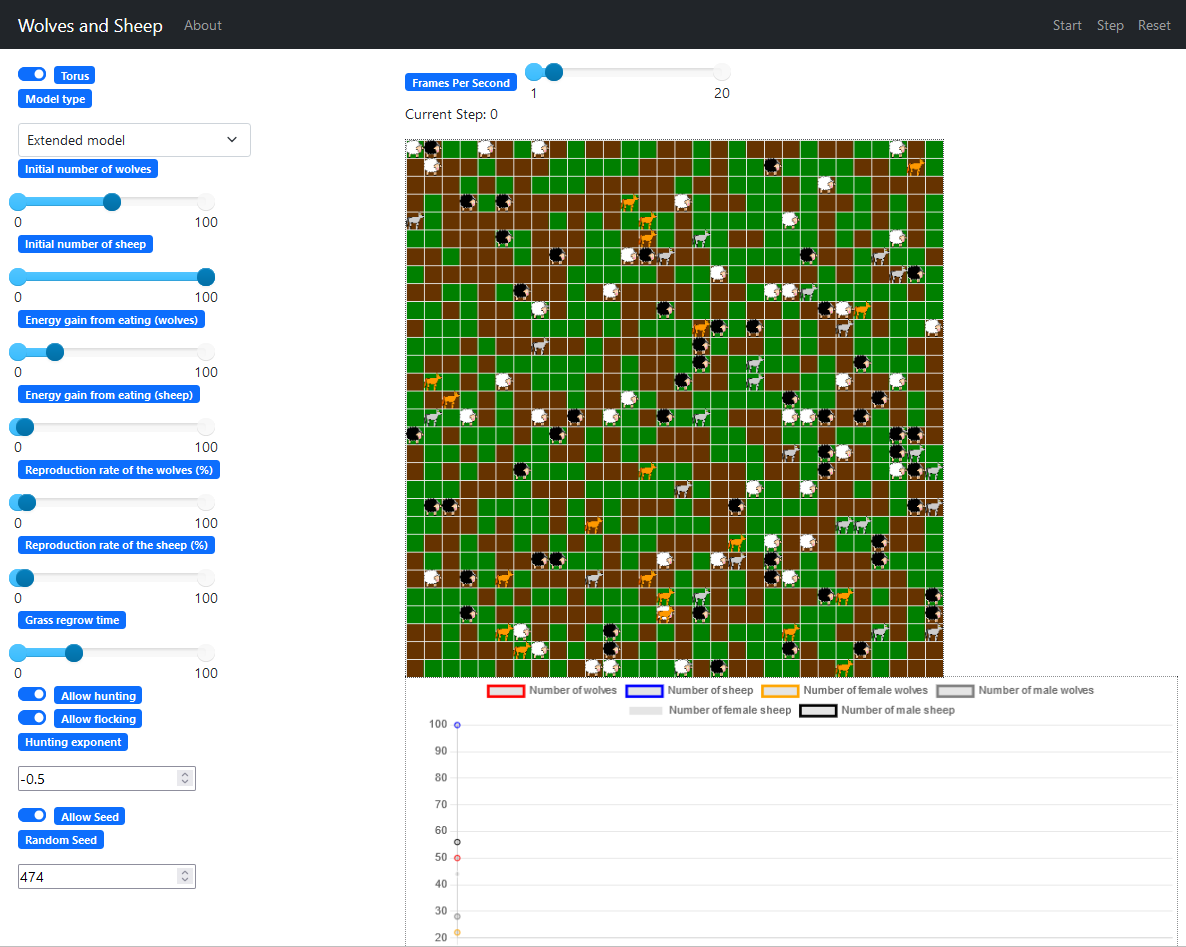
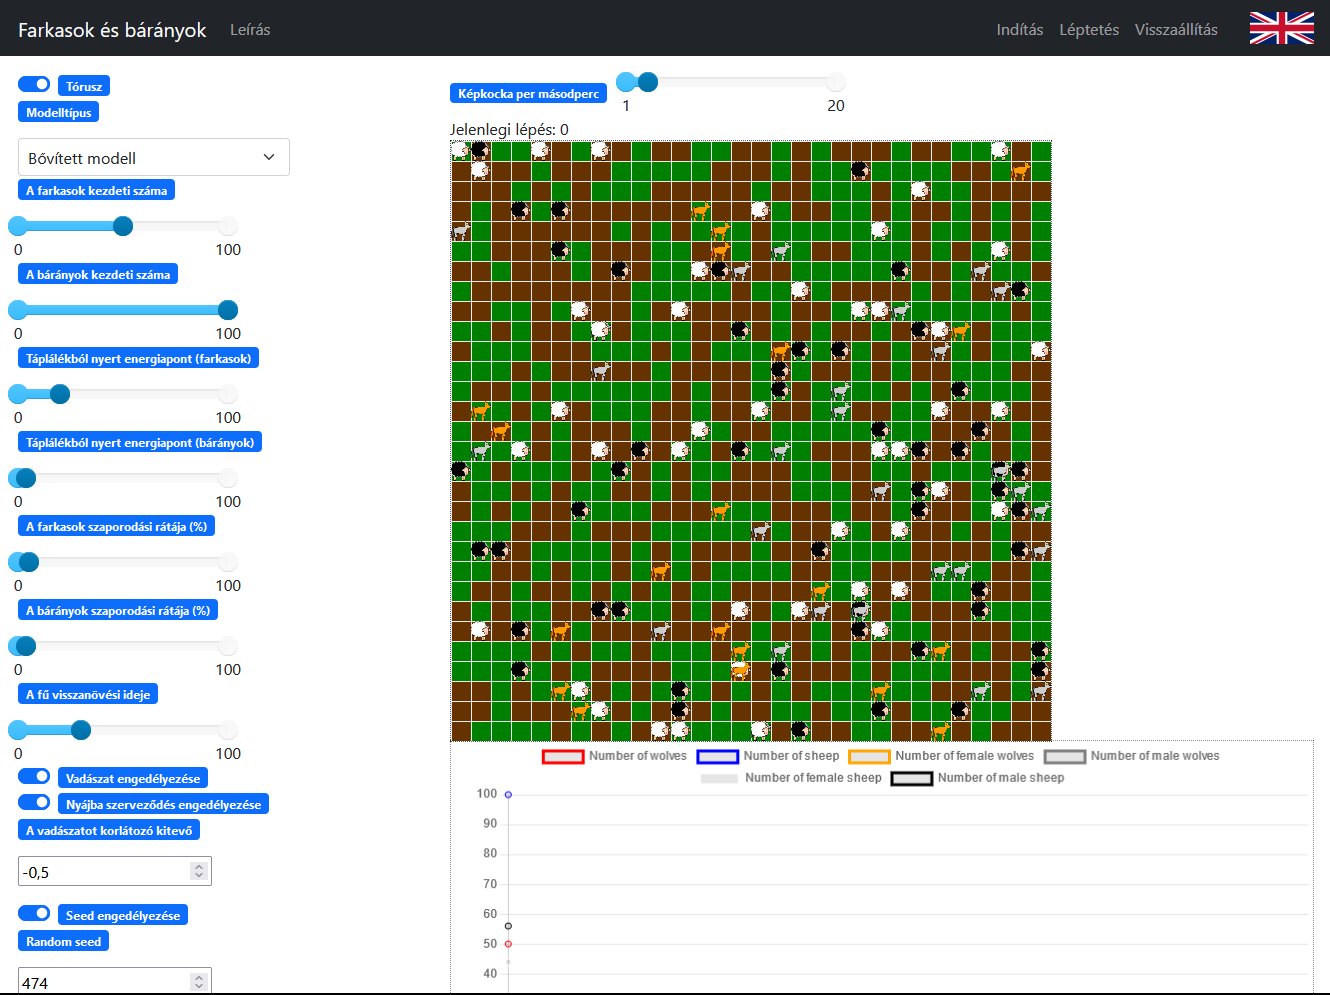
Flags and documentation progress

Changed region(s): [[0.0, 0.0, 1.0, 1.0], [0.1872, 0.1225, 0.2184, 0.1837], [0.156, 0.7043, 0.1872, 0.7656]]

diff --git a/wolfsheep/js/LangSwitch.js b/wolfsheep/js/LangSwitch.js
@@ -4,23 +4,12 @@ let lang = "en"
 navbar = document.getElementById("navbar")
 config = { attributes: true, childList: true, subtree: true }
 
-switch(lang) {
-    default:
-    case "hu":
-    navbar.innerHTML += `
+navbar.innerHTML += `
+<div><p>Tab</p></div>
 <div id="lang-flag">
-<img src="/local/custom/wolfsheep/pics/hu_flag.png">
+<img width="64" src="https://upload.wikimedia.org/wikipedia/commons/c/c1/Flag_of_Hungary.svg">
 </div>
 `
-    break;
-    case "en":
-    navbar.innerHTML += `
-<div id="lang-flag">
-<img src="/local/custom/wolfsheep/pics/en_flag.png">
-</div>
-`
-    break;
-}
 
 // Initialize description
 fetch("/local/custom/wolfsheep/text/eng_description.md")
@@ -59,7 +48,7 @@ function SwitchToHun() {
     HeaderToHun()
     ButtonsToHun()
     ParamsToHun()
-    lang_flag.firstElementChild.src = "/local/custom/wolfsheep/pics/eng_flag.png"
+    lang_flag.firstElementChild.src = "https://upload.wikimedia.org/wikipedia/commons/a/a5/Flag_of_the_United_Kingdom_(1-2).svg"
     lang = "hu"
 }
 
@@ -135,7 +124,7 @@ function SwitchToEng() {
     HeaderToEng()
     ButtonsToEng()
     ParamsToEng()
-    lang_flag.firstElementChild.src = "/local/custom/wolfsheep/pics/hun_flag.png"
+    lang_flag.firstElementChild.src = "https://upload.wikimedia.org/wikipedia/commons/c/c1/Flag_of_Hungary.svg"
     lang = "en"
 }
 

diff --git a/README.md b/README.md
@@ -131,11 +131,13 @@ Sajnálatos módon, csak Linux alatt ajánlott a futtatás, mert valamilyen ok f
 <h3>Kezelés</h3>
 <img src="wolfsheep/pics/viz_showcase.png" width=700>
 
+<br>
+
 A fenti ábrán egy az alapértelmezett paraméterekkel, kezdeti állapotban készült képernyőkép látható.
 
-A felső sávban látható a modell neve, mellette az "About" gomb, amelyre rákattintva egy angol nyelvű leírás ugrik fel. A sáv jobb szélén a "Start", "Step" és "Stop" gombok vannak, amelyek közül a középső a modellt lépteti.
+A weboldal alapértelmezett nyelve az angol, de a jobb felső sarokban lévő zászlóra kattintva a grafikonok jelmagyarázatának kivételével átállítható magyarra és akár vissza is. A bal felső sarokban a model neve látható, mellette a Leírás gombra kattintva a README.md egy rövidített, csak az oldal aktuális nyelvén lévő változata olvasható. A zászlótól balra látható az Indítás, a Léptetés és a Visszaállítás gombok, amelyek nevükhöz hűen működnek, de az Indítás gomb a Megállítás gomb is.
 
-A bal oldalon a modell paraméterei állíthatók be, középen a modellt vizualizáló négyzetrács látható, amely felett a rendes, Start gombbal való indított szimuláció sebessége allítható, amely alapértelmezett értéke 3 lépés/másodperc, azonban ez az ágensek számától függően változhat (például túlszaporodás esetén lassabb). A rács alatt két grafikon látható (az alsó nem fért a képre), amely közül a felső az egyedek számát ábrázolja fajonként, illetve nemenként a lépésszám függvényében. Az alsó grafikon a kinőtt fűágensek százalékos arányát ábrázolja szintén a lépésszám függvényében.
+A bal oldalon a modell paraméterei állíthatók be, középen a modellt vizualizáló négyzetrács látható, amely felett a rendes, Indítás gombbal való indított szimuláció sebessége allítható, amely alapértelmezett értéke 3 lépés/másodperc, azonban ez az ágensek számától függően változhat (például túlszaporodás esetén lassabb). A rács alatt két grafikon látható (az alsó nem fért a képre), amely közül a felső az egyedek számát ábrázolja fajonként, illetve nemenként a lépésszám függvényében. Az alsó grafikon a kinőtt fűágensek százalékos arányát ábrázolja szintén a lépésszám függvényében.
 
 A nőstény farkasok narancssárgák, a hímek szürkék, a nőstény bárányok fehérek, a hímek feketék. Ennek a választásnak a következménye az, hogy az öröklött modelltípusokban minden farkas hím és minden bárány nőstény.
 

diff --git a/wolfsheep/text/hun_description.md b/wolfsheep/text/hun_description.md
@@ -70,11 +70,13 @@ A vizualizációs programot többféleképpen is el lehet indítani. Egyik lehet
 Sajnálatos módon, csak Linux alatt ajánlott a futtatás, mert valamilyen ok folytán Windows alatt a mesa_viz_tornado által generált weboldalon nem jelennek meg rendesen az interaktív elemek, de ettől függetlenül minden működik. Azonban WSL-lel vagy virtuális géppel Windowson is hibátlanul futattható, de a Microsoft Edge böngésző így sem tudja megjeleníteni az érintett elemeket, de a Firefox és a Google Chrome igen. Mindkét módszert Debian Linuxszal teszteltem. Én a WSL megoldást javaslom, mert a kiírt IP-címes URL működik (http://127.0.0.1:8521, amivel egyenértékű a <a href=http://localhost:8521>localhost:8521</a>) a virtuális gép esetével ellentétben, ahol a programtól és annak beállításaitól függ az IP-cím, vagy a virtuális gépen belül használjuk a programot.
 
 <h3>Kezelés</h3>
-<img src="/local/custom/wolfsheep/pics/viz_showcase.png" width=700>
+<img src="/local/custom/wolfsheep/pics/viz_showcase.png" width=500>
+
+<br>
 
 A fenti ábrán egy az alapértelmezett paraméterekkel, kezdeti állapotban készült képernyőkép látható.
 
-A felső sávban látható a modell neve, mellette az "About" gomb, amelyre rákattintva egy angol nyelvű leírás ugrik fel. A sáv jobb szélén a "Start", "Step" és "Stop" gombok vannak, amelyek közül a középső a modellt lépteti.
+A weboldal alapértelmezett nyelve az angol, de a jobb felső sarokban lévő zászlóra kattintva a grafikonok jelmagyarázatának kivételével átállítható magyarra és akár vissza is. A zászlótól balra látható az Indítás, a Léptetés és a Visszaállítás gombok, amelyek nevükhöz hűen működnek, de az Indítás gomb a Megállítás gomb is.
 
 A bal oldalon a modell paraméterei állíthatók be, középen a modellt vizualizáló négyzetrács látható, amely felett a rendes, Start gombbal való indított szimuláció sebessége allítható, amely alapértelmezett értéke 3 lépés/másodperc, azonban ez az ágensek számától függően változhat (például túlszaporodás esetén lassabb). A rács alatt két grafikon látható (az alsó nem fért a képre), amely közül a felső az egyedek számát ábrázolja fajonként, illetve nemenként a lépésszám függvényében. Az alsó grafikon a kinőtt fűágensek százalékos arányát ábrázolja szintén a lépésszám függvényében. A lejjebb lévő "Vizualizáció nélküli futtattás" szakaszban ugyanezen grafikonok láthatóak.
 
